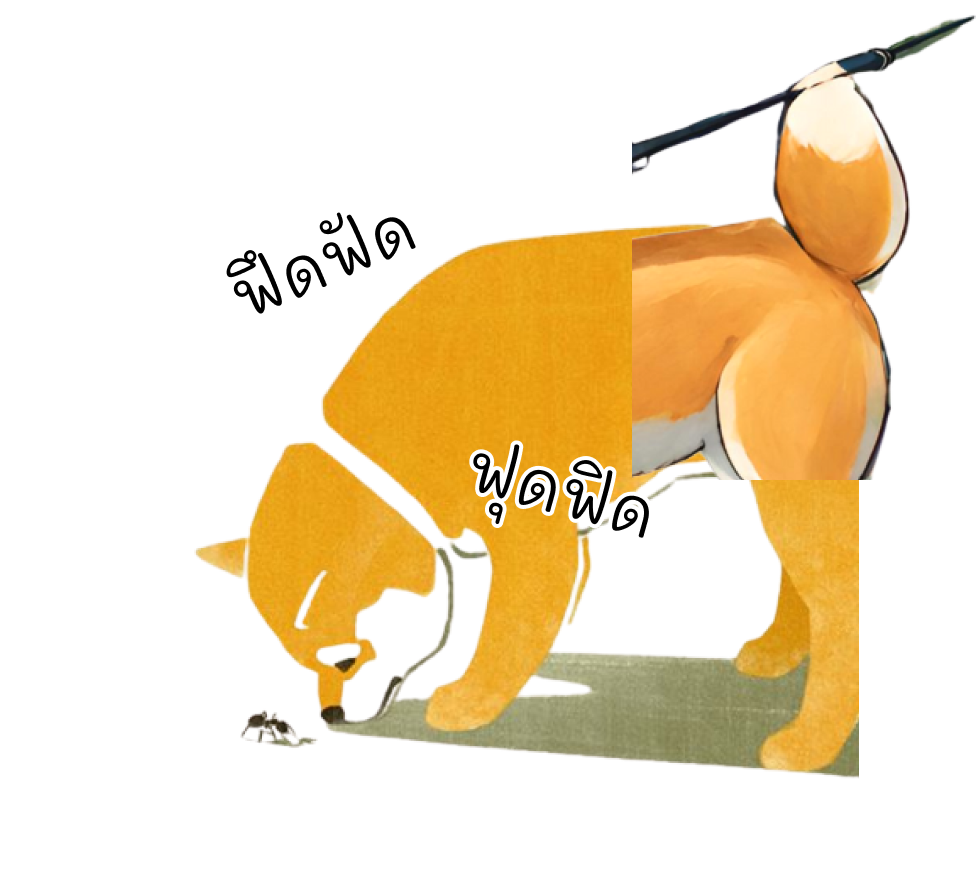
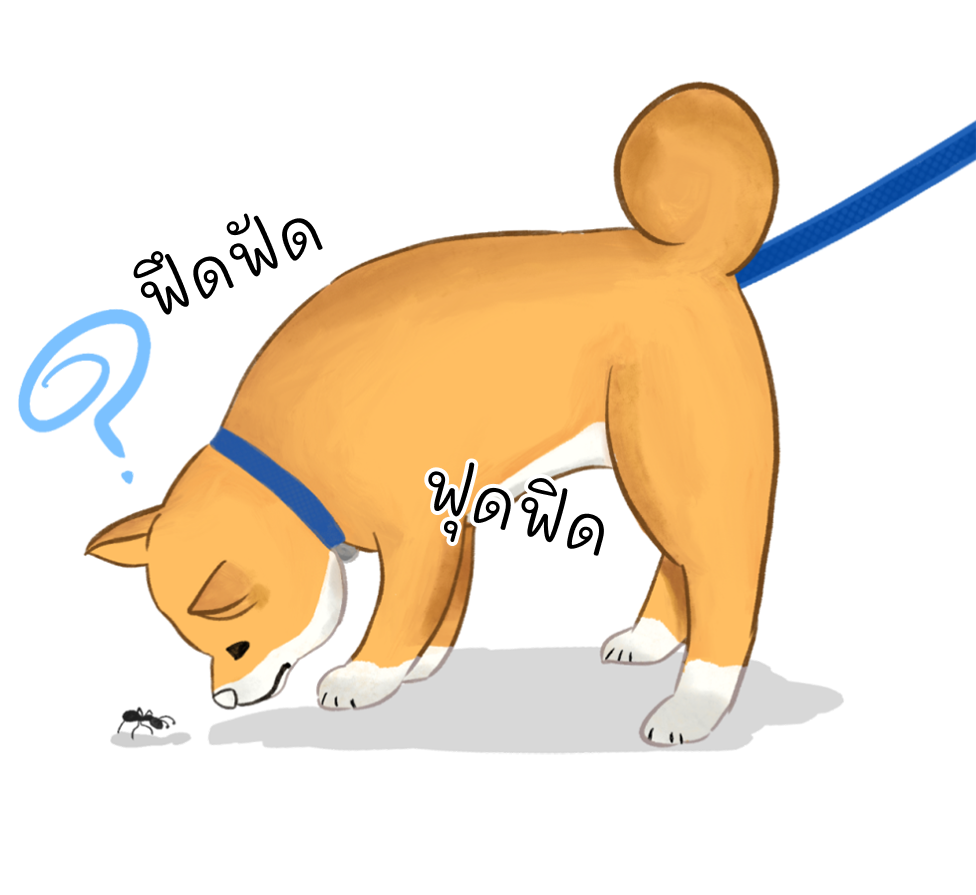
Change img st-13

diff --git a/src/components/story/story-13.js b/src/components/story/story-13.js
@@ -4,7 +4,7 @@ import Meetang from "../../Images/story_13/meetang.png";
 import Numkhaboun from "../../Images/story_13/namkhaboun.png";
 import Guests from "../../Images/story_13/guests.png";
 import BG_Guests from "../../Images/story_13/bg_guests.png";
-import Sticker from "../../Images/story_13/sticker.png"
+import Sticker from "../../Images/story_13/sticker.gif"
 
 import Tips from "../tips";
 import Chat from "../chat";
@@ -48,8 +48,8 @@ function Story13() {
                         อยู่ตลอดเวลา 
                     </p>
                 </div>
-            <div className=" flex justify-end pr-[20%] ">
-            <img className=" w-[100%]" src={Sniffing}/>
+            <div className=" flex justify-end pr-[0%] ">
+            <img className=" w-[90%]" src={Sniffing}/>
             </div>
         </div>
 
